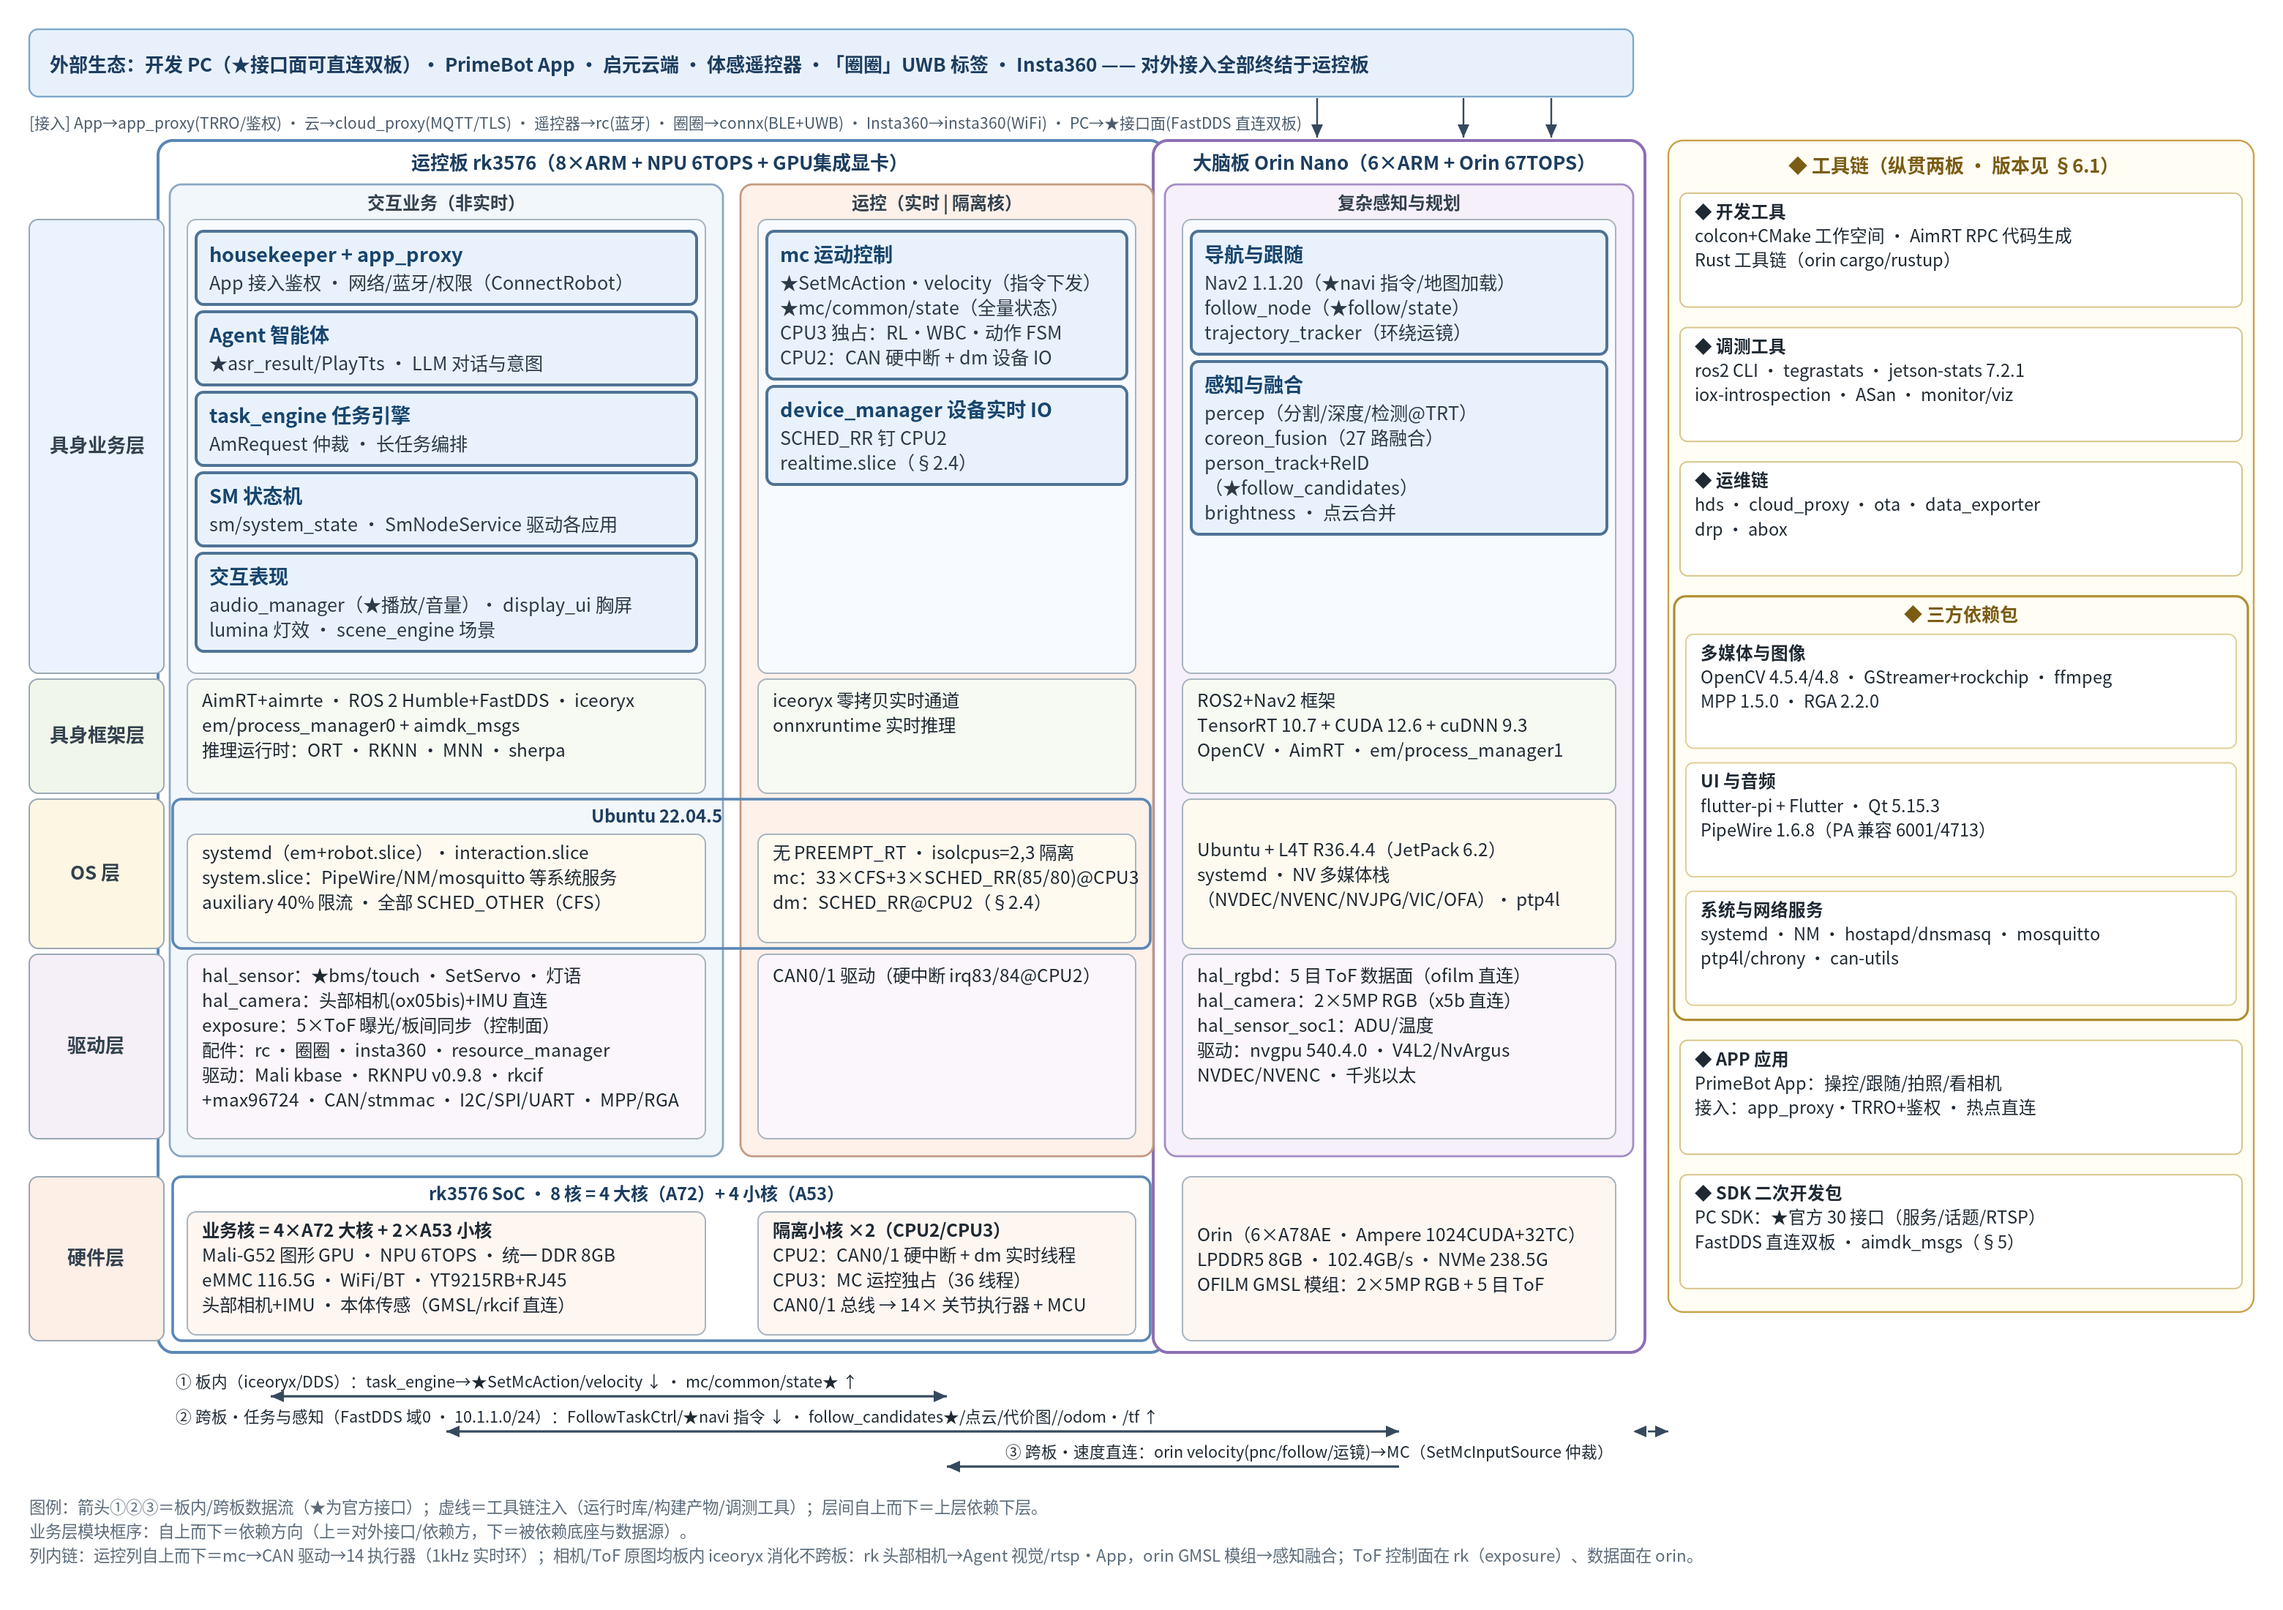
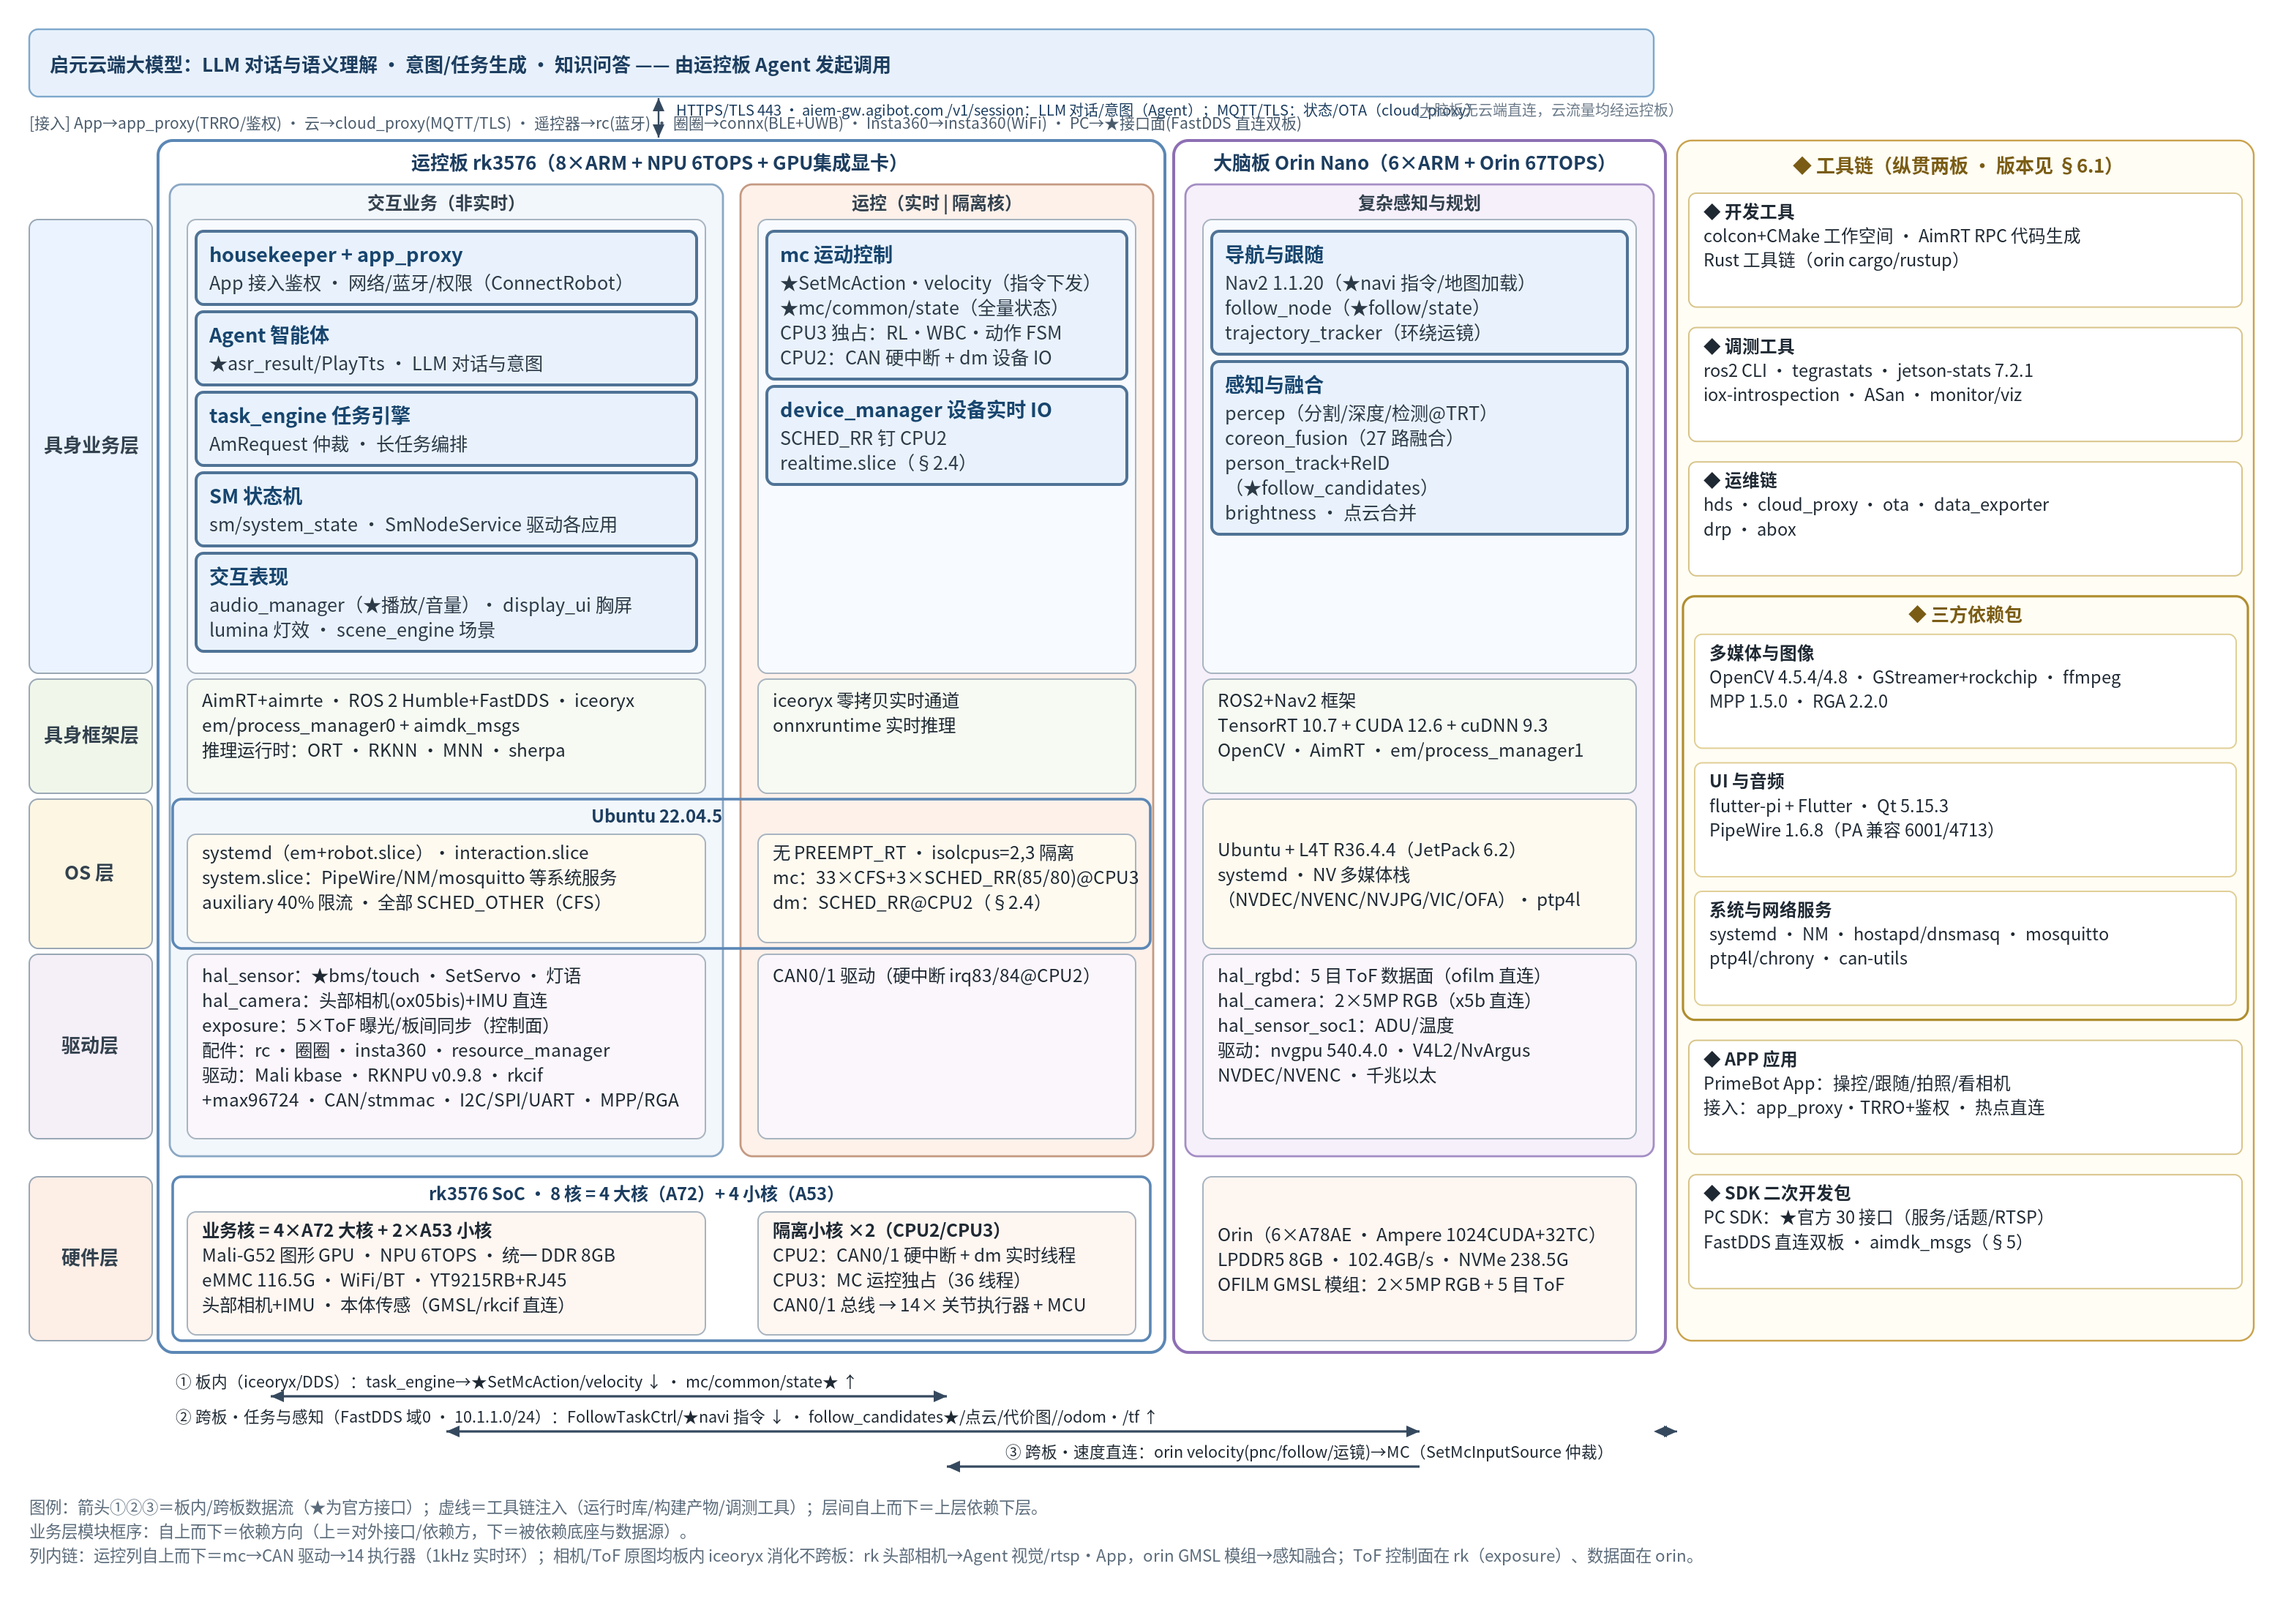
图 7-1：修板框/标签框重叠 + 顶部带改「启元云端大模型」+ 云连接实测入图 + 工具链框底对齐
- 修复重叠：运控板框 108-796 与大脑板框原本交叠 8px（orin 列右移至
  810、板框 802-1138，留 6px 间隙）；左侧 5 个层标签框收窄 92→84
  （20-104），不再压住运控板框（108 起）
- 顶部带「外部生态」改为「启元云端大模型」：LLM 对话与语义理解 · 意图/
  任务生成 · 知识问答（Agent 发起调用）
- 云连接实测（2026-10-31，只读 ss/ps）：仅运控板有云链路——Agent⇄
  aiem-gw.agibot.com HTTPS/TLS 443 /v1/session（对话/意图）+ cloud_proxy
  MQTT/TLS（状态/OTA）；大脑板零云进程、零外部 TCP 连接 → 图中画云带⇄
  运控板双向线并标注协议与内容，旁注「大脑板无云端直连」
- 工具链大框底部改为与硬件层底对齐（916px）
- 文档连线说明同步；?v=20261031j；Chrome 117/117 文本全渲染；板框/
  标签框坐标逐一核验无交叠

diff --git a/figures/gen_fig_7_1.py b/figures/gen_fig_7_1.py
@@ -50,11 +50,11 @@ def arrow(x1, y1, x2, y2, color='#35495e', both=True, dash='', sw=1.6):
 S = []   # 图体元素（svg 开闭标签在末尾按实际画布高拼装）
 
 # ---------- 版面常量 ----------
-LBL_X, LBL_W = 20, 92
+LBL_X, LBL_W = 20, 84
 C1_X, C1_W = 116, 378                 # rk·交互业务
 C2_X, C2_W = 506, 282                 # rk·运控
-C3_X, C3_W = 796, 320                 # orin
-TC_X, TC_W = 1140, 400                # 工具链（纵贯）
+C3_X, C3_W = 810, 320                 # orin（右移 14：与运控板框留 6px 间隙）
+TC_X, TC_W = 1146, 394                # 工具链（纵贯）
 PAD = 8
 BOARD_Y0, BOARD_TITLE_H, PART_TITLE_H = 96, 30, 24
 ROW_H = [310, 78, 102, 126]           # 业务(模块框化)/框架/OS(含外包框标题带)/驱动(含传感直连内容)（部分框内四层）
@@ -139,14 +139,19 @@ FILLS = ['#f6faf2', '#fefaf0', '#faf6fb']
 HW_FILL = '#fef6f1'
 LBL_FILLS = ['#eaf3ff', '#f0f7ea', '#fdf6e3', '#f5eff7', '#fdeee6']
 
-# ---------- 外部生态带 + 接入行 ----------
+# ---------- 启元云端大模型带 + 接入行 ----------
 S.append(box(LBL_X, EXT_Y, (C3_X + C3_W) - LBL_X, EXT_H, '#e8f1fb', '#7fa8cc', 1.2))
 t, _ = text_block(LBL_X + 14, EXT_Y + 29,
-                  [('外部生态：开发 PC（★接口面可直连双板）· PrimeBot App · 启元云端 · 体感遥控器 ·「圈圈」UWB 标签 · Insta360 —— 对外接入全部终结于运控板', True)],
+                  [('启元云端大模型：LLM 对话与语义理解 · 意图/任务生成 · 知识问答 —— 由运控板 Agent 发起调用', True)],
                   fs=13, color='#1c3d5f', maxw=(C3_X + C3_W) - LBL_X - 28)
 S.append(t)
-for ax in (900, 1000, 1060):
-    S.append(arrow(ax, EXT_Y + EXT_H + 1, ax, BOARD_Y0 - 2, both=False, sw=1.2))
+# 云端连接（实测 2026-10-31）：仅运控板有云链路；大脑板无直连
+S.append(arrow(450, EXT_Y + EXT_H + 1, 450, BOARD_Y0 - 2, both=True, sw=1.2))
+t, _ = text_block(462, 79, [('HTTPS/TLS 443 · aiem-gw.agibot.com /v1/session：LLM 对话/意图（Agent）；MQTT/TLS：状态/OTA（cloud_proxy）', False)],
+                  fs=10, color='#1c3d5f')
+S.append(t)
+t, _ = text_block(960, 79, [('（大脑板无云端直连，云流量均经运控板）', False)], fs=10, color='#6b7a89')
+S.append(t)
 t, _ = text_block(LBL_X, 88, [('[接入] App→app_proxy(TRRO/鉴权) · 云→cloud_proxy(MQTT/TLS) · 遥控器→rc(蓝牙) · 圈圈→connx(BLE+UWB) · Insta360→insta360(WiFi) · PC→★接口面(FastDDS 直连双板)', False)],
                   fs=10.5, color='#4a5b6c')
 S.append(t)
@@ -290,8 +295,8 @@ EB = [gh(l) for _, l in extra_boxes]
 DW = 26                                              # 三方依赖包标题带
 wrap_h = DW + sum(gh(l) for _, l in dep_groups) + GAP * (len(dep_groups) - 1) + 10
 gy0 = BOARD_Y0 + 36
-TC_BOT = gy0 + sum(TB) + wrap_h + sum(EB) + VGAP * (len(TB) + len(EB)) + 16
-assert TC_BOT <= HW_BOT, '工具链列超出硬件层底'
+TC_BOT = HW_BOT                       # 工具链框底与硬件层底对齐
+assert gy0 + sum(TB) + wrap_h + sum(EB) + VGAP * (len(TB) + len(EB)) + 8 <= TC_BOT, '工具链列纵向溢出'
 S.append(box(TC_X, BOARD_Y0, TC_W, TC_BOT - BOARD_Y0, '#fffdf4', '#c9a24b', 1.2, rx=10))
 t, _ = text_block(0, BOARD_Y0 + 22, [('◆ 工具链（纵贯两板 · 版本见 §6.1）', True)], fs=13,
                   color='#7a5c14', center=TC_X + TC_W // 2, maxw=TC_W - 20)

diff --git a/t1-pro-orin-rk-analysis.md b/t1-pro-orin-rk-analysis.md
@@ -1487,10 +1487,10 @@ sequenceDiagram
 
 **排版口径**：**纵向（列）**按部署域切分为三部分——运控板 rk 的「交互业务（非实时）」与「运控执行（实时）」两列 + 大脑板 orin 的「复杂感知与规划」一列；**横向（行）**自上而下为**具身业务层 → 具身框架层 → OS 层 → 驱动层 → 硬件层**五层（即自底向上：硬件→驱动→OS→框架→业务）；**最右侧为纵贯全部层级的「工具链」大框**。因 mermaid 自动布局无法锁定矩阵式行列顺序，本图由脚本生成 **SVG 矢量图**（`figures/gen_fig_7_1.py` → `figures/fig-7-1-layered-arch.svg`，仓库同时提供 PNG 版 `fig-7-1-layered-arch.png`），行列位置精确可控，并直接画出板内/跨板数据流与工具链注入连线。按 4+1 视图口径，**本图即逻辑视图**：以具身业务层的功能模块（职责+接口★）为主体，其下框架/OS/驱动层与硬件层作为物理承载一并框出（嵌套结构：**板框 ⊃ 部分框 ⊃ 业务/框架/OS/驱动四层；硬件层在板框内、部分框外**）；模块间接口协作另见 §7.4，场景串联见 §6.2。
 
-![图 7-1 逻辑视图（双板纵切 × 五层横切 × 工具链纵贯）](figures/fig-7-1-layered-arch.png?v=20261031i)
+![图 7-1 逻辑视图（双板纵切 × 五层横切 × 工具链纵贯）](figures/fig-7-1-layered-arch.png?v=20261031j)
 
 > **图 7-1 读法**：**板框**（运控板 rk3576 / 大脑板 Orin Nano）⊃ **部分框**（交互业务（非实时）/ 运控（实时｜隔离核）/ 复杂感知与规划，各含具身业务→框架→OS→驱动四层，上层依赖下层）（正文为缩略显示，点击图片可放大至原生分辨率）；**硬件层**在板框内、部分框正下方（**rk 侧两格外包统一框：rk3576 8 核＝4×A72 大核＋4×A53 小核**，内格细分业务核〔4×A72＋2×A53〕与 2×隔离小核 CPU2/CPU3）；**OS 层 rk 两列同属一个 Ubuntu 22.04.5 实例**（外包统一框；两格内容侧重调度——业务格：interaction/system/auxiliary slice + CFS，运控格：isolcpus=2,3 + SCHED_RR 钉核）；**具身业务层内每模块独立成框，框序自上而下=依赖方向（上=对外接口/依赖方，下=被依赖底座与数据源）**；最右列为**工具链**纵贯（**开发工具 → 调测工具 → 运维链 → 三方依赖包**〔多媒体与图像 · UI 与音频 · 系统与网络服务〕**→ APP 应用 → SDK 二次开发包**；**传感直连内容已并入各板驱动层格**——rk 格以 hal_sensor/hal_camera(ox05bis)/exposure 为前，orin 格以 hal_rgbd/hal_camera(x5b) 为前）；**①②③通信线统一画在图底部**。
-> **连线与交互**（图上带编号的箭头）：**① 板内**（rk 业务⇄运控，iceoryx/DDS）——task_engine→★SetMcAction/velocity ↓，mc→★mc/common/state ↑；**② 跨板·任务与感知**（rk 业务⇄orin，内部以太网 10.1.1.0/24 · FastDDS 域 0）——FollowTaskCtrl/★navi 指令 ↓，★follow_candidates/点云/代价图、/odom·/tf ↑（只走结果级数据，相机原图板内消化）；**③ 跨板·速度直连**（orin→MC）——nav2/follow/运镜发布 velocity(pnc/follow)，MC 按 SetMcInputSource 仲裁；**外部接入**——App→app_proxy(TRRO/鉴权)、云→cloud_proxy(MQTT/TLS)、遥控器→rc(蓝牙)、圈圈→connx(BLE+UWB)、Insta360→insta360(WiFi)，全部终结于 rk；PC ★接口面 FastDDS 直连双板；**虚线**=工具链注入。模块级全量接口见 §7.4，连接视角见 §7.2。
+> **连线与交互**（图上带编号的箭头）：**① 板内**（rk 业务⇄运控，iceoryx/DDS）——task_engine→★SetMcAction/velocity ↓，mc→★mc/common/state ↑；**② 跨板·任务与感知**（rk 业务⇄orin，内部以太网 10.1.1.0/24 · FastDDS 域 0）——FollowTaskCtrl/★navi 指令 ↓，★follow_candidates/点云/代价图、/odom·/tf ↑（只走结果级数据，相机原图板内消化）；**③ 跨板·速度直连**（orin→MC）——nav2/follow/运镜发布 velocity(pnc/follow)，MC 按 SetMcInputSource 仲裁；**外部接入**——App→app_proxy(TRRO/鉴权)、**云 LLM⇄Agent（HTTPS/TLS 443 · aiem-gw.agibot.com /v1/session：对话/意图，顶部「启元云端大模型」带即此链路，仅连运控板；2026-10-31 实测大脑板零云进程/零外部连接）**、云→cloud_proxy(MQTT/TLS：状态/OTA)、遥控器→rc(蓝牙)、圈圈→connx(BLE+UWB)、Insta360→insta360(WiFi)，全部终结于 rk；PC ★接口面 FastDDS 直连双板；**虚线**=工具链注入。模块级全量接口见 §7.4，连接视角见 §7.2。
 
 读图要点（含对本图排版方案的事实核对，依据 §1–§6 实测）：
 
